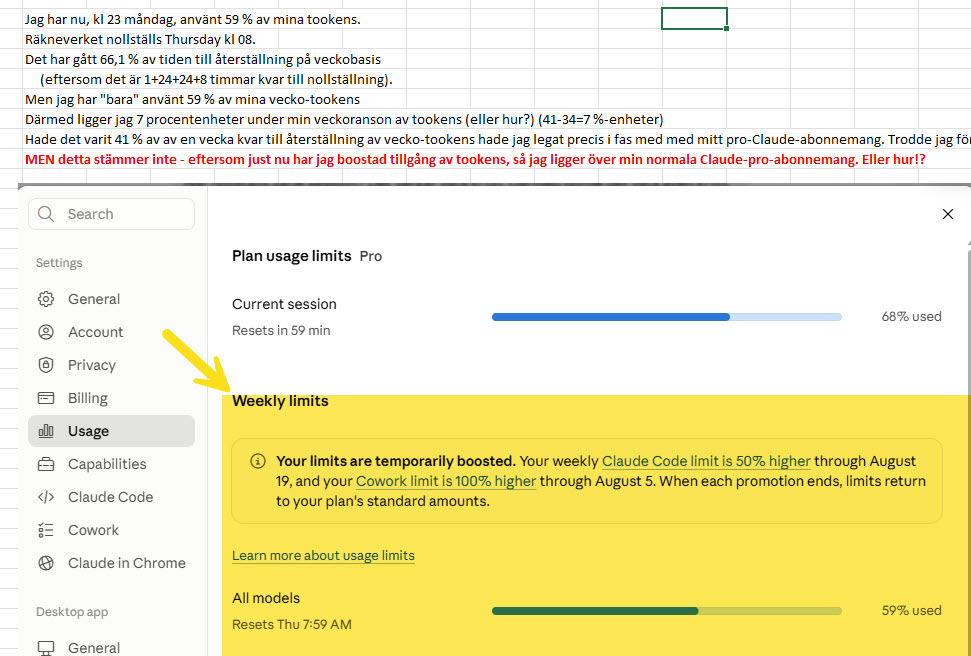
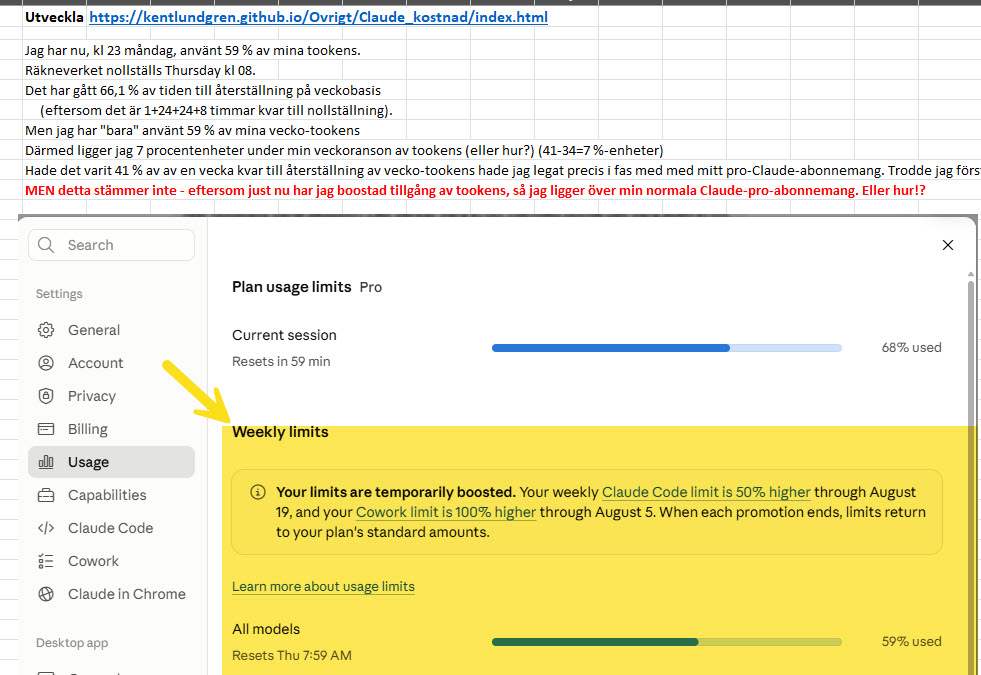
Enhance data.md with new columns for tracking weekly usage pace and historical context. Update index.html to improve user guidance on product switching and boost values, including dynamic calculations for pace and time elapsed. Update binary files for usage tracking visuals.

diff --git a/Claude_kostnad/index.html b/Claude_kostnad/index.html
@@ -155,7 +155,7 @@
   <!-- Vecka (senaste veckan) -->
   <div class="card">
     <h2>Senaste veckan</h2>
-    <p class="card-note">Weekly limits i Usage-vyn. Kan vara tillfälligt boostad — Anthropic visar då andelen av den boostade gränsen, inte mot ditt normala abonnemang. Ange boost-% om en gäller, så räknas båda ut.</p>
+    <p class="card-note">Weekly limits i Usage-vyn. Kan vara tillfälligt boostad — Anthropic visar då andelen av den boostade gränsen, inte mot ditt normala abonnemang. Byter du produkt fylls kända boost-värden i automatiskt (redigerbart). <strong>Osäkert:</strong> vi vet inte om "All models"-talet i Usage-vyn är en kombinerad siffra för Claude Code + Cowork, eller specifik för en av dem — kontrollera om Cowork har en egen separat vecko-mätare innan du återanvänder samma avlästa % för båda.</p>
     <div class="row three">
       <div class="field">
         <label for="weekProduct">Produkt</label>
@@ -263,6 +263,17 @@
 <a class="github-corner" href="https://github.com/kentlundgren/Ovrigt" target="_blank" rel="noopener">{ } GitHub</a>
 
 <script>
+// Kända tillfälliga boostar per produkt (från Kents skärmdump 2026-08-03) — används för att
+// autofylla boost-fälten när "Produkt" byts, så väljaren faktiskt påverkar uträkningen.
+const KNOWN_BOOSTS = {
+  'claude-code': {pct: 50, end: '2026-08-19'},
+  'cowork': {pct: 100, end: '2026-08-05'},
+  'annat': {pct: 0, end: ''}
+};
+
+let latestWeekTimeElapsed = NaN;
+let latestPaceBufferPP = NaN;
+
 function fmtPct(n){
   if (isNaN(n)) return '–';
   return (Math.round(n * 10) / 10).toLocaleString('sv-SE') + ' %';
@@ -373,13 +384,18 @@ function calc(){
       weekTimeElapsedEl.textContent = fmtPct(pctTimeElapsed);
 
       const paceBuffer = pctTimeElapsed - normalPct;
+      latestWeekTimeElapsed = pctTimeElapsed;
+      latestPaceBufferPP = paceBuffer;
       let paceLevel = 'ok';
-      let paceText = 'Vid linjär takt borde du ha förbrukat ' + fmtPct(pctTimeElapsed) + ' just nu (' + fmtPct(pctTimeElapsed) + ' av veckan har gått). Du ligger ' + fmtPct(Math.abs(paceBuffer)) + ' ' + (paceBuffer >= 0 ? 'under' : 'över') + ' linjär takt.';
+      const overUnder = paceBuffer >= 0 ? 'under' : 'över';
+      let paceText = 'Vid linjär takt borde du ha förbrukat ' + fmtPct(pctTimeElapsed) + ' av veckoransonen, eftersom det har gått ' + fmtPct(pctTimeElapsed) + ' av tiden till återställning. Men du har förbrukat ' + fmtPct(normalPct) + ' av en normal veckoranson. Därmed ligger du ' + fmtPct(Math.abs(paceBuffer)).replace('%','procentenheter') + ' ' + overUnder + ' linjär takt (' + fmtPct(normalPct) + ' − ' + fmtPct(pctTimeElapsed) + ').';
       if (paceBuffer < -10){ paceLevel = 'danger'; }
       else if (paceBuffer < 0){ paceLevel = 'warn'; }
       setStatus(weekPaceStatusEl, paceLevel, paceText);
     } else {
       weekTimeElapsedEl.textContent = '–';
+      latestWeekTimeElapsed = NaN;
+      latestPaceBufferPP = NaN;
       setStatus(weekPaceStatusEl, 'ok', '');
     }
 
@@ -395,9 +411,9 @@ function calc(){
       setStatus(weekStatusEl, 'danger', 'Veckogränsen är nådd.');
     } else if (normalPct >= 85){
       weekLevel = 'warn';
-      setStatus(weekStatusEl, 'warn', 'Nära gränsen — ' + fmtPct(remNormal) + ' kvar mot din normala baslinje.');
+      setStatus(weekStatusEl, 'warn', ''); // hero + takt-raden nedan täcker redan detta, ingen egen textruta
     } else {
-      setStatus(weekStatusEl, 'ok', 'I fas med din normala veckogräns.');
+      setStatus(weekStatusEl, 'ok', '');
     }
     setHero(weekHeroNumEl, weekBarEl, weekLevel, fmtPct(normalPct), normalPct);
     if (boostPct > 0){
@@ -506,14 +522,29 @@ function updateLogRow(){
   const weekNormal = !isNaN(weekPctNum) ? (Math.round(weekPctNum * (1 + boostPctNum/100) * 10) / 10) : '';
   const creditSpent = document.getElementById('creditSpent').value || '';
   const creditLimit = document.getElementById('creditLimit').value || '';
+  const timeElapsed = isNaN(latestWeekTimeElapsed) ? '' : (Math.round(latestWeekTimeElapsed * 10) / 10);
+  // Loggad med omvänt tecken mot den interna paceBuffer-variabeln: positivt tal här = över takt
+  // (normalbaslinje % − andel av veckan gången), för att matcha beskrivningen i data.md.
+  const paceBuffer = isNaN(latestPaceBufferPP) ? '' : (Math.round(-latestPaceBufferPP * 10) / 10);
 
-  const row = '| ' + todayISO() + ' | ' + sessPct + ' | ' + weekProduct + ' | ' + weekPct + ' | ' + boostPct + ' | ' + boostEnd + ' | ' + weekNormal + ' | ' + creditSpent + ' | ' + creditLimit + ' | |';
+  const row = '| ' + todayISO() + ' | ' + sessPct + ' | ' + weekProduct + ' | ' + weekPct + ' | ' + boostPct + ' | ' + boostEnd + ' | ' + weekNormal + ' | ' + timeElapsed + ' | ' + paceBuffer + ' | ' + creditSpent + ' | ' + creditLimit + ' | |';
   document.getElementById('logRow').value = row;
 }
 
 document.querySelectorAll('input, select').forEach(function(el){
   el.addEventListener('input', calc);
   el.addEventListener('change', calc);
+});
+
+// Byt produkt -> fyll i kända boost-värden för just den produkten (se KNOWN_BOOSTS ovan).
+// Går att skriva över manuellt efteråt.
+document.getElementById('weekProduct').addEventListener('change', function(){
+  const known = KNOWN_BOOSTS[this.value];
+  if (known){
+    document.getElementById('boostPct').value = known.pct;
+    document.getElementById('boostEnd').value = known.end;
+    calc();
+  }
 });
 
 document.getElementById('copyBtn').addEventListener('click', function(){

diff --git a/Claude_kostnad/data.md b/Claude_kostnad/data.md
@@ -11,13 +11,20 @@ Kolumnen **Vecka % (normalbaslinje)** är den viktiga när en boost är aktiv
 — den visar var du står mot ditt *normala* abonnemang, inte mot den
 tillfälligt höjda gränsen. Formel: `avläst % × (1 + boost % / 100)`.
 
+Kolumnerna **Andel av veckan gången** och **Takt-avvikelse** visar om du
+ligger i fas *över tid*, inte bara just nu: andel av veckan gången jämförs
+med Vecka % (normalbaslinje) — om de är lika ligger du precis i fas.
+Takt-avvikelse = normalbaslinje % − andel av veckan gången, i
+procentenheter. Positivt tal = du ligger över linjär takt (förbrukar
+snabbare än tiden går), negativt = du ligger under (marginal kvar).
+
 **Usage credits denna cykel** kommer från Usage-sidans "€X spent, resets
 [datum]" — *inte* från fakturorna på Billing-sidan (de är påfyllningar,
 inte förbrukning, se delfråga i).
 
-| Datum | Session % (just nu) | Vecka-produkt | Vecka % (mot aktiv gräns) | Aktiv boost % | Boost slutdatum | Vecka % (normalbaslinje) | Usage credits denna cykel (€) | Usage credits-gräns (€) | Anteckning |
-|---|---|---|---|---|---|---|---|---|---|
-| | | | | | | | | | |
+| Datum | Session % (just nu) | Vecka-produkt | Vecka % (mot aktiv gräns) | Aktiv boost % | Boost slutdatum | Vecka % (normalbaslinje) | Andel av veckan gången (%) | Takt-avvikelse (pp) | Usage credits denna cykel (€) | Usage credits-gräns (€) | Anteckning |
+|---|---|---|---|---|---|---|---|---|---|---|---|
+| | | | | | | | | | | | |
 
 ## Historisk kontext (frivilligt, ej del av mätningen)
 
